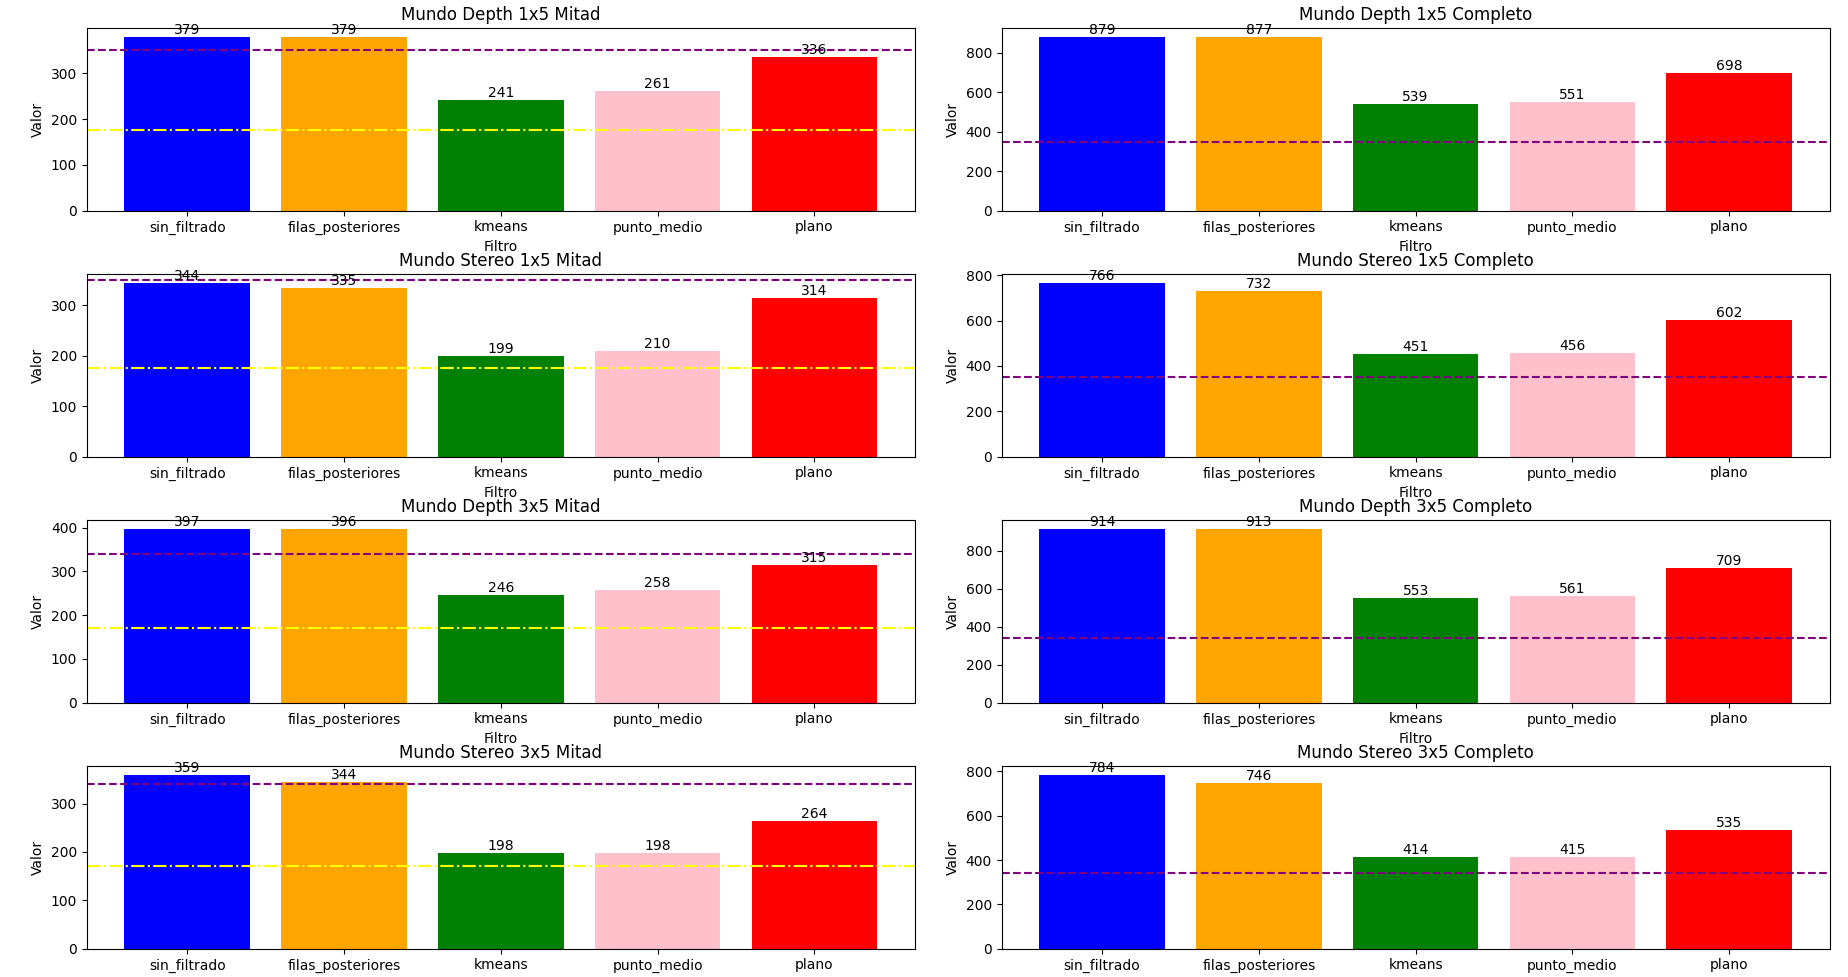
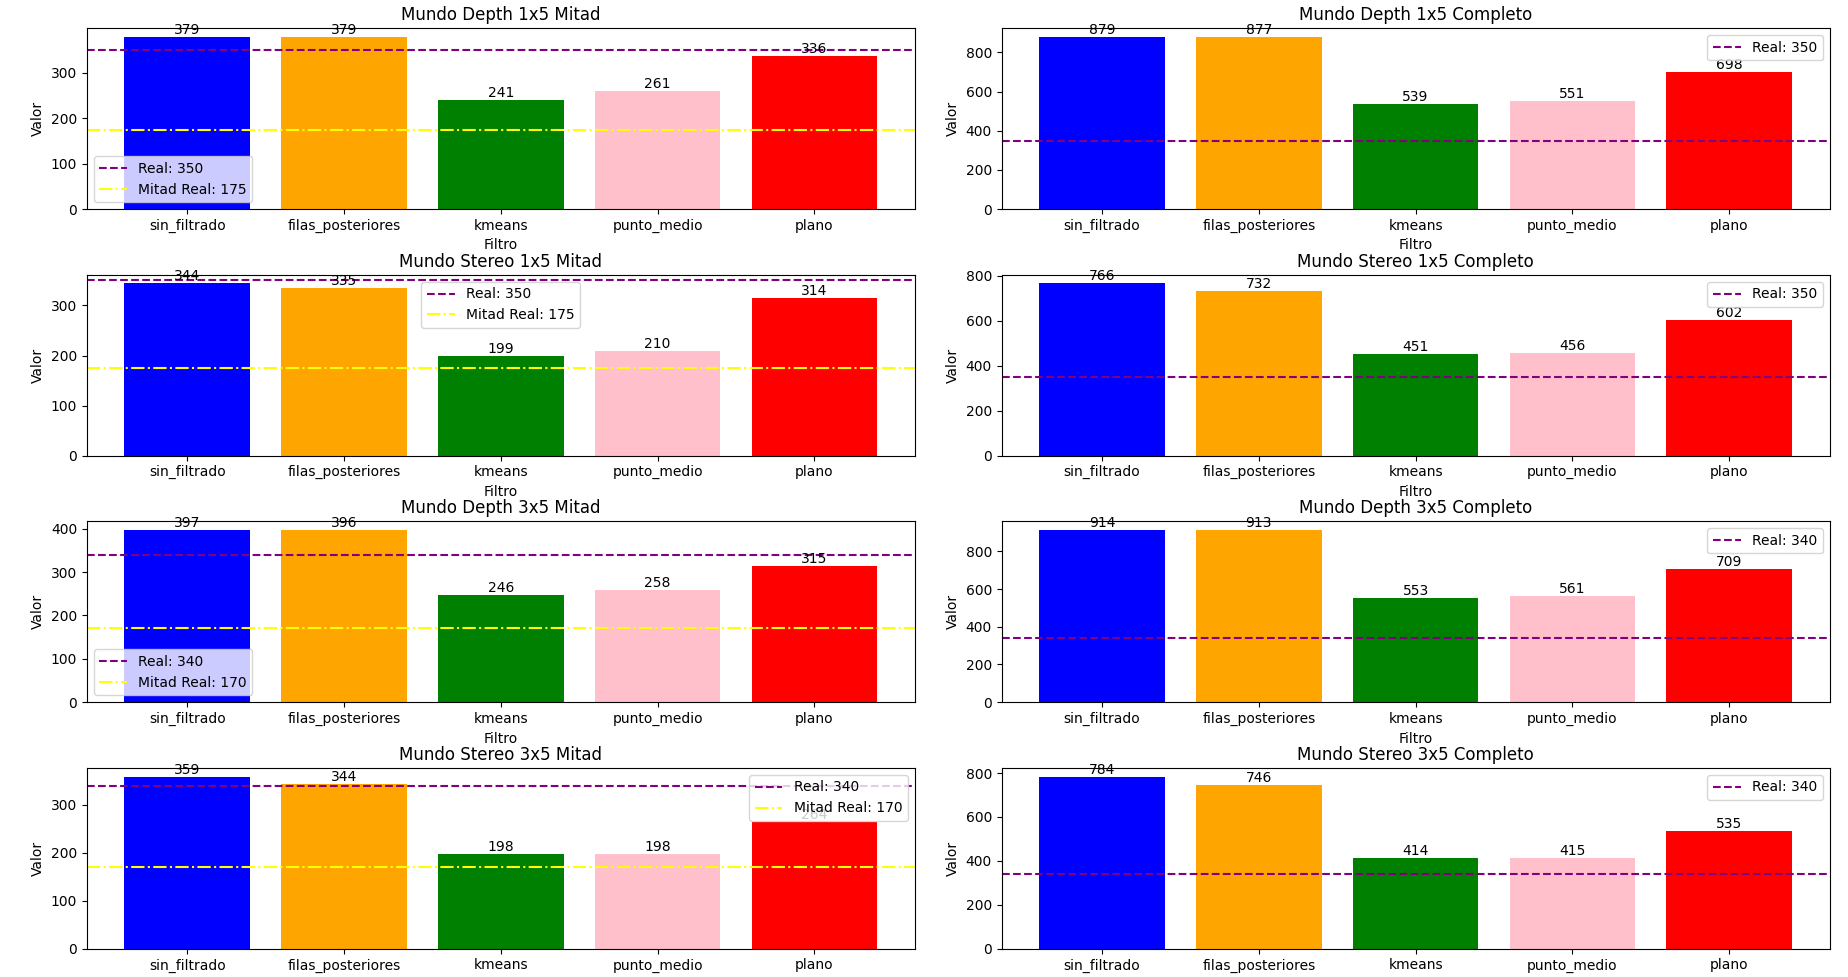
faltaba leyenda

diff --git a/fields_ignition/nodes/detectors_and_trackers/graficas.py b/fields_ignition/nodes/detectors_and_trackers/graficas.py
@@ -133,6 +133,7 @@ def generar_graficos_separados(carpeta, mundos_reales):
             ax.set_title(mundo, fontsize=12)  # Mantener título del gráfico individual
             ax.set_ylabel("Valor")
             ax.set_xlabel("Filtro")
+            ax.legend()
 
     plt.tight_layout()
     plt.show()
@@ -158,6 +159,7 @@ def generar_graficos_separados(carpeta, mundos_reales):
                 ax.axhline(y=datos["real"], color='purple', linestyle='--', label=f"Real: {datos['real']}")
             if "mitad real" in datos:
                 ax.axhline(y=datos["mitad real"], color='yellow', linestyle='-.', label=f"Mitad Real: {datos['mitad real']}")
+            
             ax.set_title(mundo, fontsize=12)  # Mantener título del gráfico individual
             ax.set_ylabel("Valor")
             ax.set_xlabel("Filtro")
